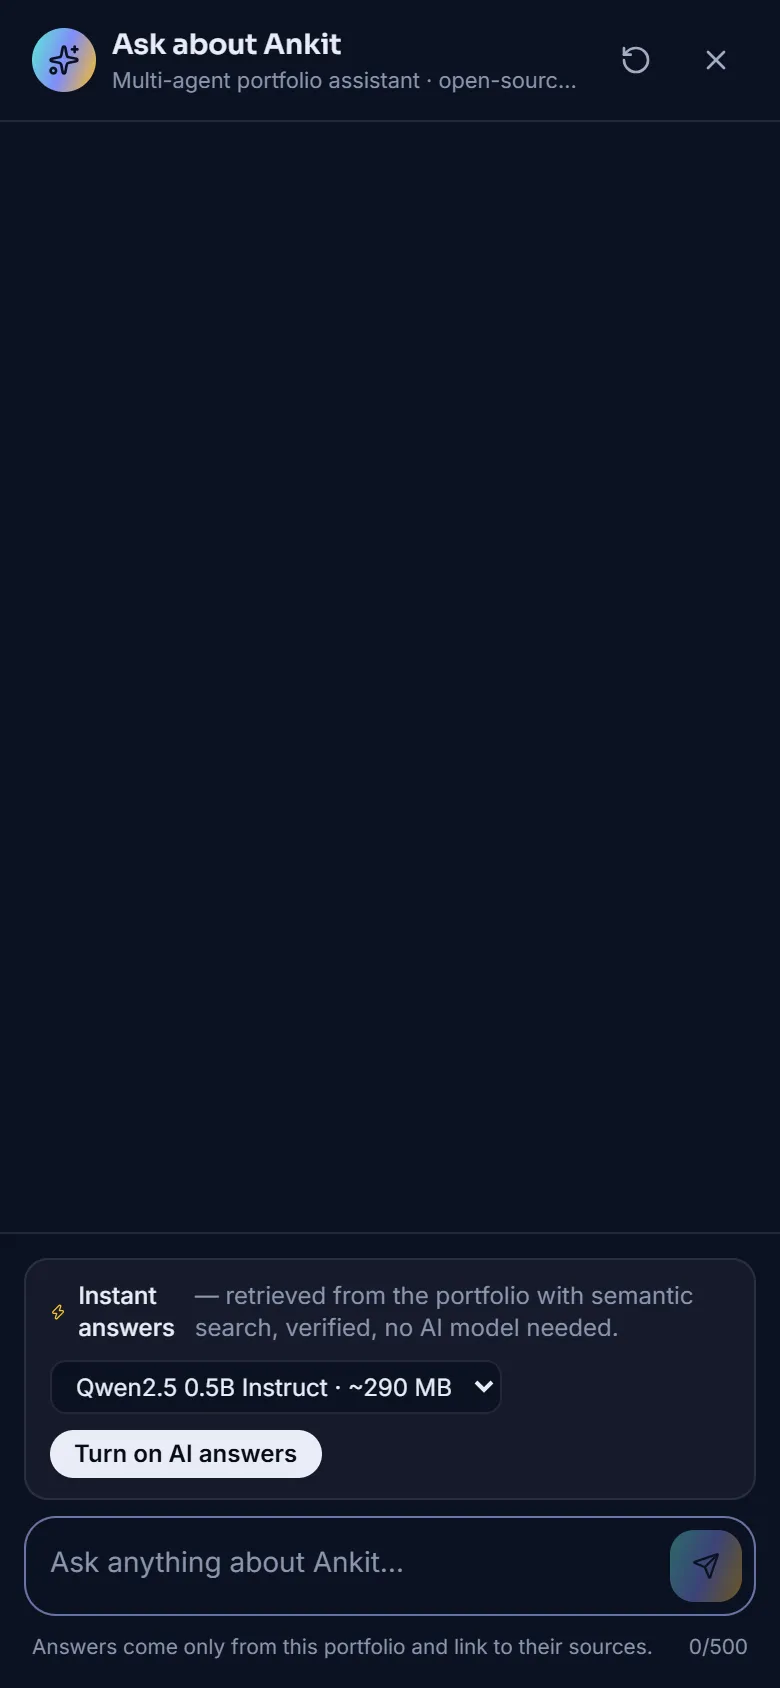
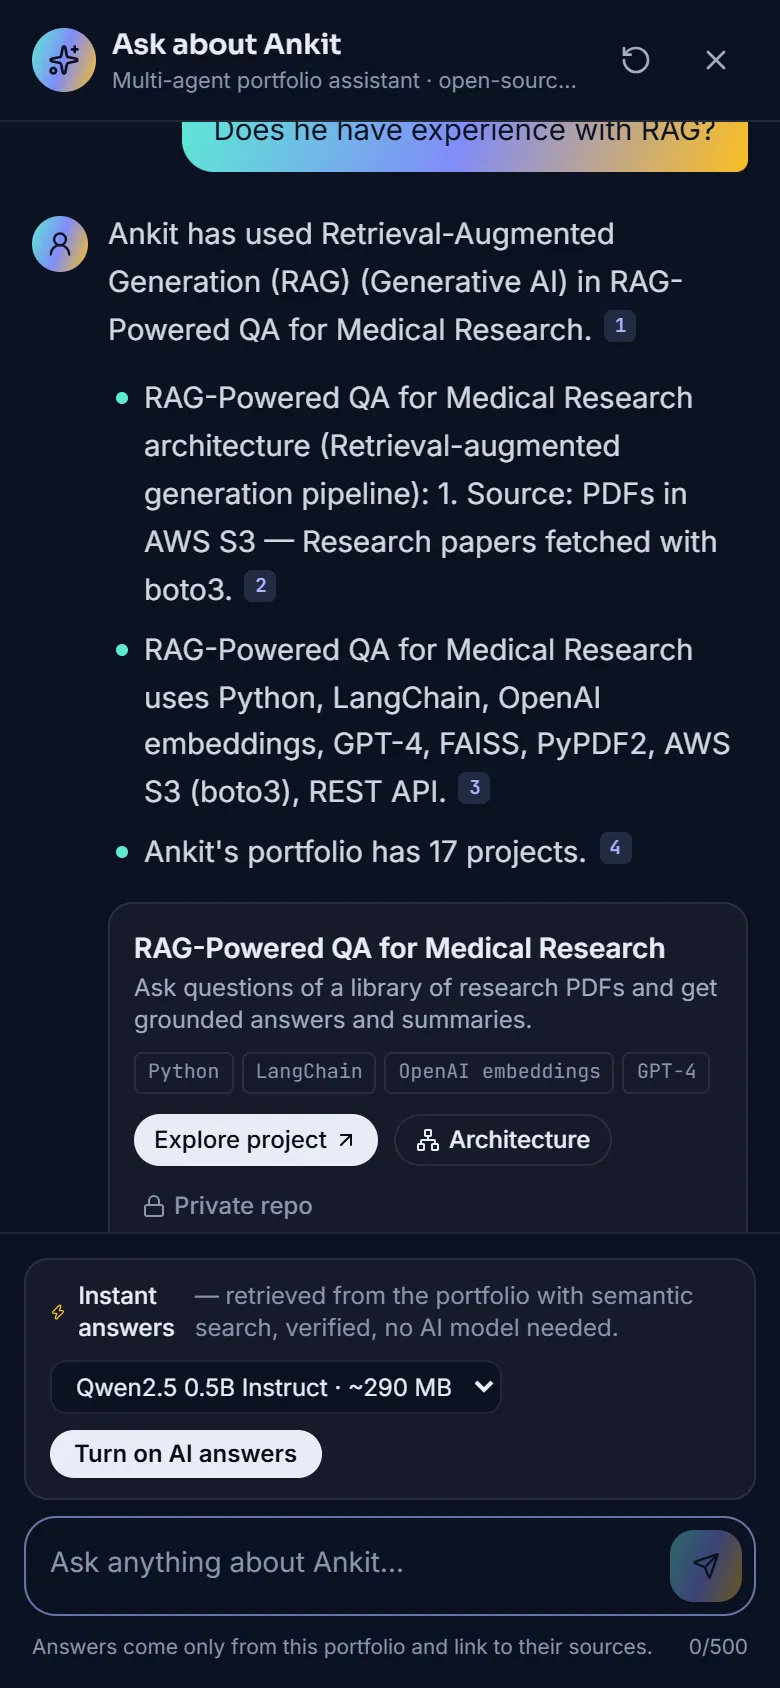
Docs: end-to-end audit report (findings, fixes, agent execution, QA, deployment)
docs/AUDIT_REPORT.md records the audit, every fix with its root cause and regression
test, the real-inference agent report (21/22 on Qwen2.5-0.5B), the QA table by category
with blocked / not-run items and reasons, Lighthouse results (desktop 95-99, mobile 65-69,
a11y/best practices/SEO 100), deployment details and what still needs the owner.
Screenshots refreshed from the final production deploy.

diff --git a/docs/AUDIT_REPORT.md b/docs/AUDIT_REPORT.md
@@ -1,0 +1,126 @@
+# End-to-end audit, fixes and verification — November 2026
+
+Scope: the whole portfolio (every page, control, API, the “Ask about Ankit” agents, security, performance, deployment), audited against all earlier requirements, then fixed, enhanced and re-verified. Every result below comes from an executed test; anything not executed is listed as **not run** with the reason. Raw evidence: `docs/benchmarks/agent-execution.json`, `docs/screenshots/qa-results.json`, the test files named in each row.
+
+## A. Audit — what was found
+
+How the audit was done: a read-only code inventory of every page and component (is each control wired to real behaviour?), a security/config review (secrets in the tree and the full git history, public files, API validation, headers, dependencies), browser exploration of the live site, and a **real-inference** run of every agent with an open-weight model.
+
+| Area | Expected | Found before this pass | Status now |
+|---|---|---|---|
+| Home | Interactive landing page | Worked; some counts hard-coded (“1 in progress”, “PG Diploma … 2020”) | Counts computed from content; interactive hero network, toolkit strip, counting highlights, card spotlight/tilt, reading progress |
+| About · Experience | Profile, career timeline | Worked; **invalid list markup** (`<div>` directly inside `<ol>`) in both timelines | Fixed (`Reveal as="li"`) |
+| Skills | Technical skills | Worked; no visual summary | Added the “Where the evidence is” chart (each bar opens its evidence) |
+| Projects | Searchable, filterable catalogue | Search ignored problem/approach/features/agents (placeholder promised “problem”); search reached the URL only on blur; back/forward didn't update the box; a filter clicked right after typing could drop the search (stale URL params) | All fixed; search covers every text field and is shareable |
+| Project details | Architecture, stack, links | Worked; all GitHub links real (no `#`/TODO) | Unchanged; tilt/spotlight on cards |
+| Certifications | Gallery | Worked; all five lack image/verify URL/date in the content; dialog showed “Completed: —” | Shows “Date not listed”; **content needed from the owner** (§F) |
+| Education · Achievements | Details, milestones | Copy promised “open any milestone” although milestones don't open | Copy corrected |
+| Knowledge Hub | Notes | 4 of 10 topic chips permanently disabled (no notes) | Only topics with notes are shown |
+| Resume | Preview and download | Worked; printable page had no print button | Print / save-as-PDF button (hidden in print) |
+| Contact | Working contact | **Production has no delivery channel**: visitors filled the whole form and only then learnt it could not be sent | Form says so up front and hands the validated message to the visitor's email app; real delivery needs one env var (§F) |
+| Ask about Ankit | Conversational assistant | Worked; see agent findings below | Fixed (below) |
+| Six interaction modes | Recruiter, Technical deep dive, Student, Project explorer, AI conversation, Professional overview | Site views existed, but **4 of 6 had no assistant persona** (fell back to generic ones), persona style was ignored without a model, and switching the view mid-conversation did nothing | Each mode is its own persona, synced both ways, and changes answers even without a model |
+| AI agents | Real orchestration | Routing misrouted “Which projects use multi-agent orchestration?” (a suggested follow-up) to the recruiter; the 0.5B planner could override the router; NexusAI was crowded out of “multi-agent projects” evidence; preamble words became “unknown topics”; no client timeout on the self-hosted tier; the proxy timeout cut slow-but-healthy streams | All fixed with root causes and regression tests (§B) |
+| Profile photo | Placeholder, upload, preview, **removal** | No way to remove the live photo / return to the placeholder; publishing never set `photo.src` | Revert-to-placeholder (typed REMOVE) and publish now points the profile at the photo |
+| SEO | Metadata, sharing | Static pages inherited the home page's `og:title` and `og:url "/"` (Next.js replaces, not merges, `openGraph`); `/ask` missing from sitemap, footer and search; manifest had only an SVG icon | Per-page Open Graph/Twitter tags; `/ask` everywhere; PNG manifest icon |
+| Security | No secrets, safe APIs | No secrets in tree or history; 0 npm vulnerabilities; CSP allowed **all of jsDelivr** (any npm package); a local Windows path in tooling; status endpoint probed the model server on every hit; contact body size checked after reading | CSP pinned to three package paths (tested); paths derived from the home directory; 30 s health cache; size checked before reading |
+| Responsive | Mobile/tablet/desktop | No overflow found | Re-tested (§D) |
+| Deployment | Public URL | Live and auto-deployed from `main` | Re-deployed and re-tested (§E) |
+
+## B. Fixes — root cause → change → proof
+
+| # | Defect (how found) | Root cause | Fix | Regression test (fails without the fix) |
+|---|---|---|---|---|
+| 1 | Modes didn't change the assistant (code audit) | `MODES` mapped four modes to generic personas; persona style only reached the model prompt | Four new personas (`overview`, `technical`, `projects`, `conversation`) with routing priors and an `answer` shape (points, evidence preference) applied in instant mode; mode ⇄ persona sync via a `portfolio:mode` event | `tools/tests/modes.test.ts` (mutation-checked) |
+| 2 | Suggested follow-up “Which projects use multi-agent orchestration?” answered by the recruiter with a résumé card (agent run) | Embedding-only routing: bge-small scored all agents within 0.05 | Hybrid router (dense + 0.1 × BM25 over agent examples) and three new “which projects…” examples; routing 41/42 → 42/42 | `tools/tests/routing.test.ts` (mutation-checked) |
+| 3 | 0.5B planner replaced a near-tie with wrong agents (agent run) | Planner output overrode the router entirely | Planner may only pick among agents within 0.03 of the best score | covered by the agent run (routing now always semantic for the owner's questions) |
+| 4 | “What multi-agent projects…?” omitted NexusAI; the model then called a forecasting project multi-agent (agent run) | IntelliHub filled 3 of 5 evidence slots; NexusAI ranked 8th | Project agent is breadth-first (one chunk per project) when no project is named | `tools/tests/evidence.test.ts` (mutation-checked) |
+| 5 | A hiring-manager preamble produced “no information about ‘manager’, ‘reviewing’…” (agent run) | Unknown-topic check and retrieval used the whole input | Only the asking sentence(s) drive retrieval, routing and the unknown-topic check; context still reaches the model | `tools/tests/evidence.test.ts` (mutation-checked) |
+| 6 | First real question fell back after 45.6 s (agent run) | New watchdog too tight: CPU prefill of ~850 tokens takes ~47 s here | 90 s to first token, 20 s between tokens | `tools/tests/llm-http.test.ts` |
+| 7 | A wedged self-hosted server kept visitors waiting; slow answers cut at 60 s (code review) | No client timeout; `AbortSignal.timeout` on the proxy fetch also aborts the streamed body | Client watchdog (plain Error → verified answer); proxy timeout covers headers only, visitor disconnect cancels upstream, 180 s cap | `tools/tests/llm-http.test.ts` (real local servers) |
+| 8 | Contact form dead end in production (code audit) | Delivery is env-gated; the form only learnt that after submit | Server passes `delivery` to the form; up-front notice and email-app hand-off | browser QA scenario 32 |
+| 9 | Photo couldn't be removed (code audit) | No API action; publish never set `photo.src` | `revert` action + studio UI with typed REMOVE; publish sets `src`; GitHub calls get timeouts and clear errors | `tools/tests/photo-publish.test.ts` (fake GitHub), `tests/admin-api.test.mjs` |
+| 10 | Shared links previewed as the home page (code audit) | Next.js replaces parent `openGraph`; static pages set none | `pageMetadata()` helper on all 11 static pages | built HTML checked (§D) |
+| 11 | Project search gaps (code audit) | Narrow search haystack; URL written on blur from stale params | Full haystack; debounced URL sync from `window.location`; back/forward sync | browser check |
+| 13 | “Open the certifications page” auto-opened **/resume** (probe while adding a Navigation-agent scenario) | The agent opened the page of the top evidence chunk; the word “page” matched the résumé chunk (“Resume page”) | The Navigation agent resolves the page the visitor names (or a named project) and opens only that one | `tools/tests/evidence.test.ts` (fails with the old behaviour: `→ /resume`) |
+| 12 | CSP allowed every jsDelivr package (security review) | Host-wide source | Three pinned package paths (incl. the onnxruntime-web build transformers.js loads) | `tools/tests/assistant.test.ts`; embedding worker verified in the browser under the new CSP (384-d unit vector) |
+
+## C. Agent execution report (real inference)
+
+**Setup.** `tools/bench/agents.ts` starts llama.cpp `llama-server` (CPU, 4 threads) with **Qwen2.5-0.5B-Instruct Q4_K_M** — the site's default open-weight model — and sends 22 scenarios through the *same* orchestrator code the website runs, with the real bge-small embedding model. Every agent event is recorded; “generated” means tokens were actually streamed by the model (no mocks — the failure scenarios use a closed port and a real HTTP server that never answers). Hardware: Intel i7-8665U laptop, 16 GB RAM, no GPU. Full per-scenario table: [benchmarks/README.md](benchmarks/README.md) (section “Agent execution”) · raw JSON: [benchmarks/agent-execution.json](benchmarks/agent-execution.json).
+
+**Final run (7 Nov 2026, after all fixes): 21/22 scenarios passed.**
+
+| Agent | Model | Inference | Actual test (scenarios it led) | Result | Time (end-to-end, this CPU) | Known limitations |
+|---|---|---|---|---|---|---|
+| Conversation Orchestrator | — (deterministic) + Qwen2.5-0.5B planner | Ran on all 22 | Guardrails (injection, private data, over-long), question focus, follow-up resolution, hybrid routing, specialist selection, fallback | 22/22 routed or stopped correctly; routing was decided semantically in every case (planner not needed); in the first run the planner was used twice and once mis-picked agents → now limited to near-ties | < 0.1 s without a model | Planner on a 0.5B model is unreliable, hence tie-break only |
+| Professional Profile Agent | Qwen2.5-0.5B | **Generated** (3/3) | background, certifications, multi-part (education + certifications) | 3/3 pass | avg 6.9 s, max 9.6 s | — |
+| Technical Expertise Agent | Qwen2.5-0.5B | **Generated** (5/5) | strongest skills, Agentic AI, AutoGen, student mode, long question, missing info (honest decline, no model call) | 6/6 pass | avg 13.9 s, max 19.4 s | Long-question answer conflated ChromaDB (a listed skill) with the RAG project — passes the lexical validator |
+| Project Intelligence Agent | Qwen2.5-0.5B | **Generated** (5/5) | multi-agent projects, RAG architecture, open-source models, GitHub projects, follow-up (“What is its architecture?” after NexusAI) | 4/5 pass — the RAG answer was accurate but omitted FAISS (the scenario requires it); it passed in the previous run | avg 11.6 s, max 13.2 s | “Multi-agent projects” answer names NexusAI and IntelliHub but also lists non-agent projects |
+| Recruitment Assistant Agent | Qwen2.5-0.5B | **Generated** (1/1) | contact for an opportunity (recruiter mode) | 1/1 pass | 8.9 s | — |
+| Portfolio Navigation Agent | Qwen2.5-0.5B | **Generated** (1/1) | “Take me to his resume page” (auto-opens `/resume`); unrelated question → honest decline with navigation | 2/2 pass | 9.4 s | Generated wording was clumsy; the action is deterministic |
+| Response Validation Agent | deterministic | Checked all 15 model drafts | Numbers, quantities, employers, names, citations, decline/caveat policy | Final run: 0 replaced. Previous run (before the navigation fix only): replaced a draft that invented the year “2019”. First run: replaced drafts with an invented number (“10”) and an invented place (“Lahore”) | < 5 ms | Lexical: cannot catch category errors (see Project agent) |
+| Failure handling | — | Closed port; server that never answers | Model unavailable → verified answer; model silent → watchdog → verified answer | 2/2 pass (0.0 s and 8.0 s with the test's 8 s limit; production limit 90 s) | — | — |
+
+**How the run drove the fixes** (all measured, then regression-tested — §B): run 1 = 18/20 (wrong agents from the planner; a false “model unavailable” at 45.6 s; the long-question scenario was mis-specified) → run 2 = 20/21 → after the evidence and question-focus fixes 21/21 → with the new Navigation scenario 21/22 (the RAG keyword miss above) after the navigation fix.
+
+**Public-inference reality.** These timings come from the optional self-hosted tier on this laptop. Public visitors get (a) instant verified answers on every device, with no model and $0, or (b) the same model in their own browser via WebGPU when their GPU supports it. On this laptop's Intel UHD 620 that path loads but cannot generate, and fails safely to (a) — see ASSISTANT.md §4. No paid API is used anywhere.
+
+## D. QA test report
+
+Each executed check is counted once, in one category. *Blocked* = could not be executed for a reason outside the code; *Not run* = deliberately not executed (reason given).
+
+| Test category | Total tests | Passed | Failed | Blocked | Not run |
+|---|---:|---:|---:|---:|---:|
+| Navigation | 16 | 15 | 0 | 1 | 0 |
+| UI/UX | 15 | 15 | 0 | 0 | 0 |
+| Forms | 13 | 11 | 0 | 1 | 1 |
+| Projects | 16 | 16 | 0 | 0 | 0 |
+| AI assistant | 51 | 51 | 0 | 0 | 0 |
+| Open-source agents | 27 | 25 | 1 | 1 | 0 |
+| Security | 32 | 31 | 0 | 0 | 1 |
+| Performance (Lighthouse runs) | 10 | 5 | 3 | 2 | 0 |
+| Responsive testing | 11 | 9 | 0 | 0 | 2 |
+| Deployment | 12 | 11 | 0 | 1 | 0 |
+
+What is in each row (evidence):
+
+- **Navigation**: browser QA scenarios 01, 03, 06, 09 (Ctrl K palette), 10, 12, 21 (404) on production; route checks on production (`/api/contact` GET → 405, `/api/assistant/status` 200 with no address/key, `/admin/photo` → 307 to sign-in, résumé PDF 200, `/kb/knowledge.json` 200, robots, manifest, PNG icon). *Blocked*: LinkedIn profile link returns 999 to automated requests (LinkedIn's bot block); the URL is correct but was not machine-verifiable.
+- **UI/UX**: QA 02, 07, 08, 13 (light theme), 26, 30 (evidence chart), 31 (toolkit); browser checks of the hero network (renders, pointer joins it), card tilt (measured ±1.2°/1.5°) and spotlight, reading-progress bar (scaleX tracks scroll), marquee duplicate `aria-hidden` + unfocusable, count-up lands on the real values, chart bar opens the skill's evidence, phone static frame (0 animation frames/s at 375 px) vs desktop animation, hero readability on desktop and phone.
+- **Forms**: contact API 8/8 (405/415/403/400 with field errors/413/honeypot/time-trap/503 when unconfigured); QA 11 and 32 (delivery notice in production); empty-form validation shows five field errors and focuses the first. *Not run*: clicking the email-app hand-off with valid data (it would launch the mail client on this machine). *Blocked*: real delivery (no Resend/webhook configured — §F).
+- **Projects**: QA 04 (filtered URL), 05 (interactive NexusAI architecture); all 11 GitHub repository links return 200; production search: a word that only appears in a project's features (“luhn”) finds it, typing continues uninterrupted through the debounced URL update (`?q=luhn`), and a filter clicked after typing keeps `q`.
+- **AI assistant**: QA 22, 23 (cited answer), 24 (guardrail), 29 (picking the Projects mode switches the site view), 33 (long question with preamble); browser: picking Technical in the assistant switched the site view, and switching the view mid-conversation switched the assistant's persona; `tools` suites assistant 27 + modes 4 + routing 2 + evidence 5; model proxy 6/6 against a fake upstream.
+- **Open-source agents**: 22 real-inference scenarios (§C; the failure is the RAG answer omitting FAISS) + 4 watchdog tests against real local servers. *Blocked*: on-device (WebGPU) generation — this laptop's GPU loads the model but cannot generate (fails safely).
+- **Security**: admin API 15/15 (incl. revert), photo publishing 5/5 against a fake GitHub API, secrets scan of the tree and the full history, `npm audit` root + tools (0 vulnerabilities), live security headers, source maps not served, `/.env` `/package.json` `/build.log` → 404, embedding worker loads under the narrowed CSP (384-d unit vector), WebLLM runtime imports under it, revert button stays disabled when publishing is not connected (the CSP-pinning test is counted under AI assistant, in the tools suite). *Not run*: a real GitHub commit from the studio (it would change the production repository; covered by the fake-API tests).
+- **Performance**: Lighthouse on production, desktop preset — `/` 98 and 95, `/skills` 99, `/ask` 98, `/projects/nexusai` 98 (LCP 0.6–0.9 s, CLS ≤ 0.016). Mobile preset — `/` 65 and 67, `/projects` 69 (LCP 3.2–3.4 s, TBT 1.1–1.5 s). Mobile counts as *failed* here against a 90 target; `/projects`, which has none of the new effects, scores the same, so the cost is React hydration under 4× CPU throttling on a machine whose Lighthouse benchmark index was 560–920 (Lighthouse calibrates for ~1000+); there is no earlier mobile baseline to compare against. Accessibility, best practices and SEO were **100 in every completed run**. *Blocked*: 2 runs ended with Lighthouse's `NO_NAVSTART` trace error (re-run).
+- **Responsive**: QA 14, 15 (tablet), 16, 17 (menu), 18, 19, 20, 27, 34 (phone); every one of the 34 scenarios also asserts no horizontal overflow. *Not run*: Safari and Firefox (not installed here).
+- **Deployment**: three production builds succeeded on Vercel (`fe85868`, `428b731`, `a720e22`); production serves server-rendered markers of the new build (toolkit strip, `/ask` in the sitemap, per-page `og:title`, pinned CSP header), the new CSS and the new hero script; full fresh-profile QA on production **34/34 clean**; hero scenarios (01, 02, 13, 16) re-run clean on production after the readability change, and 01, 16, 27, 34 after the final phone change (`a720e22`). *Blocked*: the Vercel preview check — previews sit behind Vercel's login and the browser session had expired (signing in is the owner's to do); the same commits were verified on a local production build instead (API suites and 34 scenarios) and then on production.
+
+## E. Deployment
+
+| Item | Value |
+|---|---|
+| GitHub repository | https://github.com/chandankit/ankit-chand-portfolio (public) |
+| Live portfolio | **https://ankit-chand-portfolio.vercel.app** |
+| Platform | Vercel (Hobby, free), Git-connected: every push to `main` builds and deploys; branches get login-protected previews |
+| Status | Deployed; last production commit `a720e22` (all builds green) |
+| Branch | Work on `feature/audit-polish`, fast-forwarded into `main` |
+| Commit author | `ankitchand <83659676+chandankit@users.noreply.github.com>` for the new commits |
+| Public, logged-out test | Fresh InPrivate Edge profile (no cookies, not signed in to GitHub or LinkedIn): 34/34 scenarios clean across desktop, tablet and phone, incl. assistant answers, guardrails, modes, contact, skills chart, admin disabled; no console errors, failed requests or horizontal overflow |
+| Hosting limits | Static pages from the CDN; API routes are serverless functions (contact, model proxy, admin) with in-memory rate limits per instance. The free plan needs no runtime AI: answers are computed in the visitor's browser. Optional self-hosted inference is supported but not configured. |
+| Paid services | None. No paid API, subscription or usage-billed AI service anywhere in the runtime. |
+
+## F. Remaining issues (need the owner or are out of reach)
+
+| Item | Why it isn't done | What is needed |
+|---|---|---|
+| **Contact email delivery** | Needs an account with a delivery service; creating accounts or entering keys on your behalf isn't allowed, and you chose earlier to keep it off. The form now works honestly without it (email-app hand-off). | Optional: set `RESEND_API_KEY` + `CONTACT_TO_EMAIL` (Resend's free tier does not auto-bill) or a `CONTACT_WEBHOOK_URL` in Vercel, then redeploy. |
+| **Photo Studio** | Disabled until configured (by design). Publish/revert need a GitHub token. | `ADMIN_PASSWORD` + 32-character `ADMIN_SESSION_SECRET`; optionally `GITHUB_TOKEN` (fine-grained, this repo, Contents write) + `GITHUB_REPO`. |
+| **Certificate evidence** | All five certifications have no image, date or verification link in `content/certifications.json`; inventing them is not allowed. | Add the certificate files to `public/certificates/` and their dates/verify URLs. |
+| **UAC forecasting claim** | The résumé says the 4-week error was “halved”; the project's public README reports MAE **43 %** below a naive forecast. Both are your words, so neither was changed. | Decide which wording to keep (the case study, timeline and assistant all quote “halved”). |
+| **Validator fix for “AutoGen-based”** | Done in a separate session on branch `fix/validator-hyphenated-names` (not merged, not pushed). This pass did not touch the validator to avoid conflicts. | Merge that branch if you want it. |
+| **Public AI generation for every visitor** | Zero paid APIs means generation runs in the visitor's browser (WebGPU) or on a server you host. Instant verified answers work for everyone; generation needs a capable GPU (it fails safely on this laptop's Intel UHD 620). No free, non-expiring hosted GPU exists that fits the constraints. | Optional: run llama.cpp on a machine you control and set `INFERENCE_BASE_URL` (proxy, guardrails, timeouts and rate limit already in place). Never expose it without the proxy. |
+| **Mobile performance 65–69** | Desktop is 95–99, but on Lighthouse's throttled mobile profile React hydration dominates (pages without the new effects score the same). Cutting it means moving more of the home page to server components and loading the animation library only where it is used — a refactor, not a fix. | Optional follow-up; measure on a faster machine first (this laptop's benchmark index was 560–920). |
+| **Rate limits are per serverless instance** | A shared store (Upstash/Vercel KV) would be a new service. | Only matters once contact delivery or admin is switched on; Vercel firewall rules are the free alternative. |
+| **Not tested** | Safari and Firefox (no install here); real email delivery and real GitHub publishing (not configured — tested against a fake GitHub API only); on-device generation speed (GPU hangs here); a full LinkedIn cross-check (not needed: no content was added). | — |
+| **Commit author** | New commits use `ankitchand` with the GitHub *noreply* address you chose earlier — verified and attributed to your account, and it keeps the address out of git metadata that mirrors and scrapers copy. Earlier commits were not rewritten — rewriting published history on `main` is destructive. | Say if you want the Gmail address on future commits instead. |

diff --git a/README.md b/README.md
@@ -12,6 +12,8 @@ A fast, accessible, content-driven site built with **Next.js 16 (App Router), Ty
 
 Lighthouse (production, desktop): **Accessibility 100 · Best practices 100 · SEO 100**; performance 98 on the home page and 80–91 on the heaviest case-study page on a throttled test laptop. Fresh-profile browser QA: **28/28 scenarios clean** on production. More screenshots in [docs/screenshots](docs/screenshots).
 
+> **Audit, November 2026:** what was checked, every fix with its root cause, the real-inference agent report and the QA results are in **[docs/AUDIT_REPORT.md](docs/AUDIT_REPORT.md)**.
+
 ## Features
 
 | Area | What it does |
